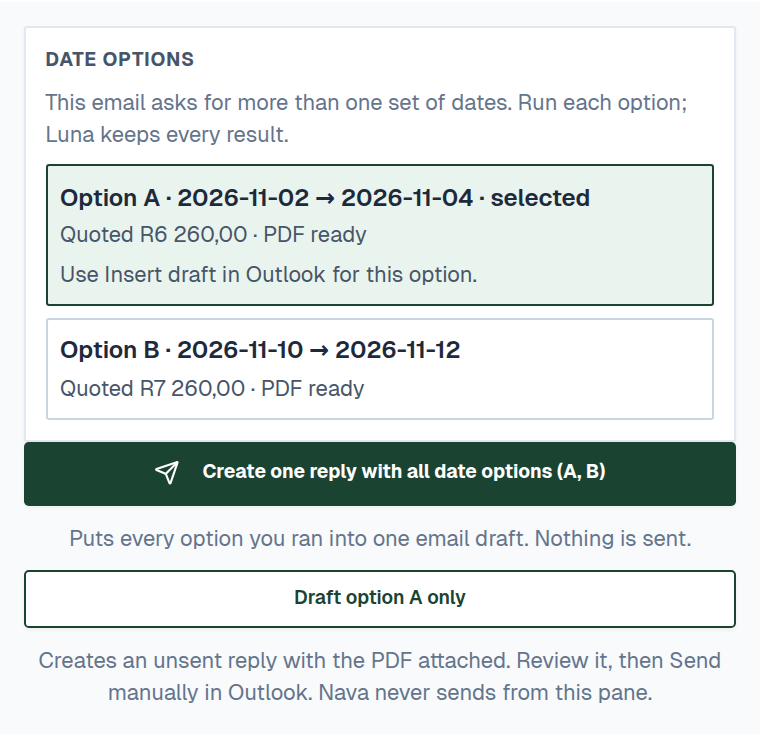
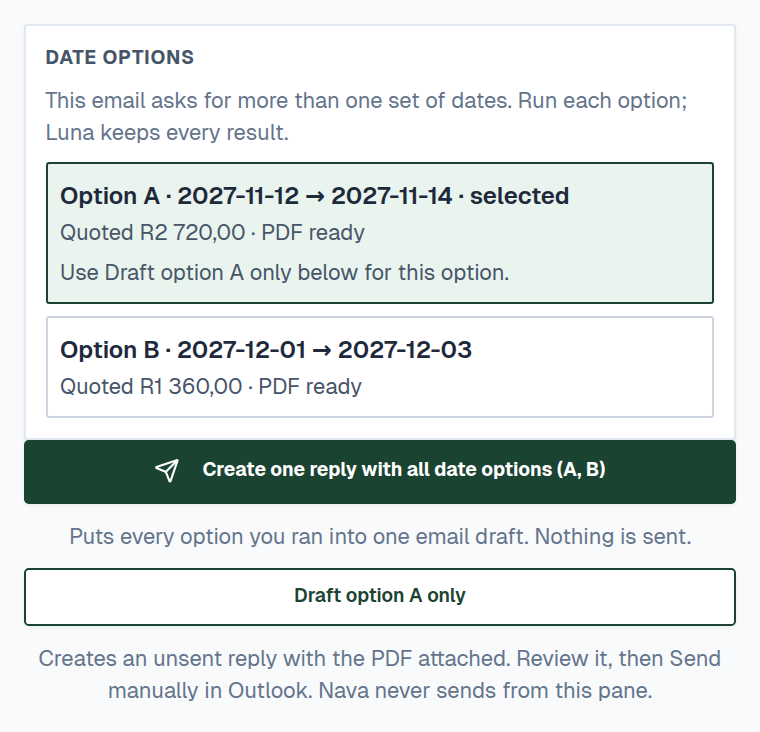
docs(pilot): match notes and screenshot 06 to the fix
The staff guide and install doc now quote the reworded change-panel note. Screenshot 06 is re-shot with two completed date options, so the option card and reply buttons agree.

diff --git a/docs/pilot/2026-10-08-install-and-onboarding.md b/docs/pilot/2026-10-08-install-and-onboarding.md
@@ -75,7 +75,7 @@ Tick each line before 08:00. If a line fails, fix it or cut that part of the cal
 
 ### Build and test data
 
-- [ ] The pane build is wave 2 or later. On a change email, the **Find this booking in HMS** button is there.
+- [ ] The pane build is wave 2 or later, with the note-copy fix. On a change email, the **Find this booking in HMS** button is there, and no amber note says "not supported yet".
 - [ ] The test email has synced. Luna says "This email has not finished syncing yet" until it has.
 - [ ] Test emails are ready: one quote, one booking, one change email. Use test stays only.
 - [ ] Contact placeholders are filled in (see "Who to contact" below).
@@ -193,7 +193,7 @@ The read-root and folder approvals are separate operator commands. They are in `
 | "Outlook may have created the draft but did not confirm it" | Outlook may have saved the draft already. | Check Outlook **Drafts** before retrying. A retry reuses the same PDF. Do not make two drafts. |
 | "This email has not finished syncing yet" | Sync for that email is not done. | Wait a minute. Select the email again. |
 | "Luna is not connected to this pane yet. Refresh the pane and try again." | The pane has not linked to Luna yet. | Refresh the pane. If it happens again, call the operator. |
-| An amber note "Changing or cancelling a booking is not supported yet." appears on a change email | The same email also carries the change flag (see "Known gaps", item 5). | The **Find this booking in HMS** button still works. Make every change by hand in HMS. |
+| An amber note "Changing or cancelling a booking is not supported yet." appears next to the change panel | The build is older than the note-copy fix (see "Known gaps", item 5). | Check the build includes the fix. The note should read "Luna can find the booking; make the change in HMS yourself." The **Find this booking in HMS** button works either way. Make every change by hand in HMS. |
 
 ---
 
@@ -205,7 +205,7 @@ These are facts from the repo that differ from, or limit, what the call would ot
 2. **Device code scope.** Device credentials and the one-use code are per Windows user (runbook step 6, and the operator README).
 3. **Shared-store reply blocker.** On a shared mailbox that is not the default Drafts store, the add-in refuses to create the reply draft, by design (runbook, order of operations, step 8). **Insert draft in Outlook is refused on non-default shared mailboxes.** Staff must reply by hand in Outlook for those mailboxes.
 4. **Book and cancel are off.** Preview and Book in HMS, and Preview and Cancel in HMS, stay off until `RESERVATIONIST_PANE_SAVE=on`. Cancel commits only for test stays (arrival on or after 2027-01-01).
-5. **Amber note with the change panel.** The server can set the `amendment_or_cancel` flag on a change or cancel email. The "not supported yet" note then shows next to the change panel. The panel itself still works. Decide before the call: fix the flag handling, or brief staff to ignore the note.
+5. **Amber note with the change panel: fixed in code.** The server can set the `amendment_or_cancel` flag on a change or cancel email. While the change panel is on screen, the amber list no longer says "not supported yet". It reads "Luna can find the booking; make the change in HMS yourself." Confirm the build includes this fix before the call.
 6. **Multi-date.** The combined reply attaches one PDF per completed option. It is one email draft, not one PDF.
 7. **Windows is not tested here.** The repo's own onboarding doc says Linux tests and source reading do not prove Windows Outlook behaviour. The first real PC is the test.
 8. **Instant pane depends on a server flag.** `LUNA_ANALYSE_WARMER=on` is set in the pm2 deploy config. Without it, results are not pre-read.

diff --git a/docs/pilot/2026-10-08-staff-guide.md b/docs/pilot/2026-10-08-staff-guide.md
@@ -225,7 +225,7 @@ Change and cancel emails show the label **Change to booking** or **Cancellation*
 - "The HMS lookup is not connected in this session. Search HMS by hand."
 - "Luna can't reach HMS right now. Tell the Nava team."
 
-**Amber note on a change or cancel email:** you may also see "Changing or cancelling a booking is not supported yet. Handle it by hand in HMS." You can still use **Find this booking in HMS**. Make every change by hand in HMS.
+**Note on a change or cancel email:** you may see "Luna can find the booking; make the change in HMS yourself." This means the same thing as the panel. Use **Find this booking in HMS**, then make every change by hand in HMS.
 
 ---
 
